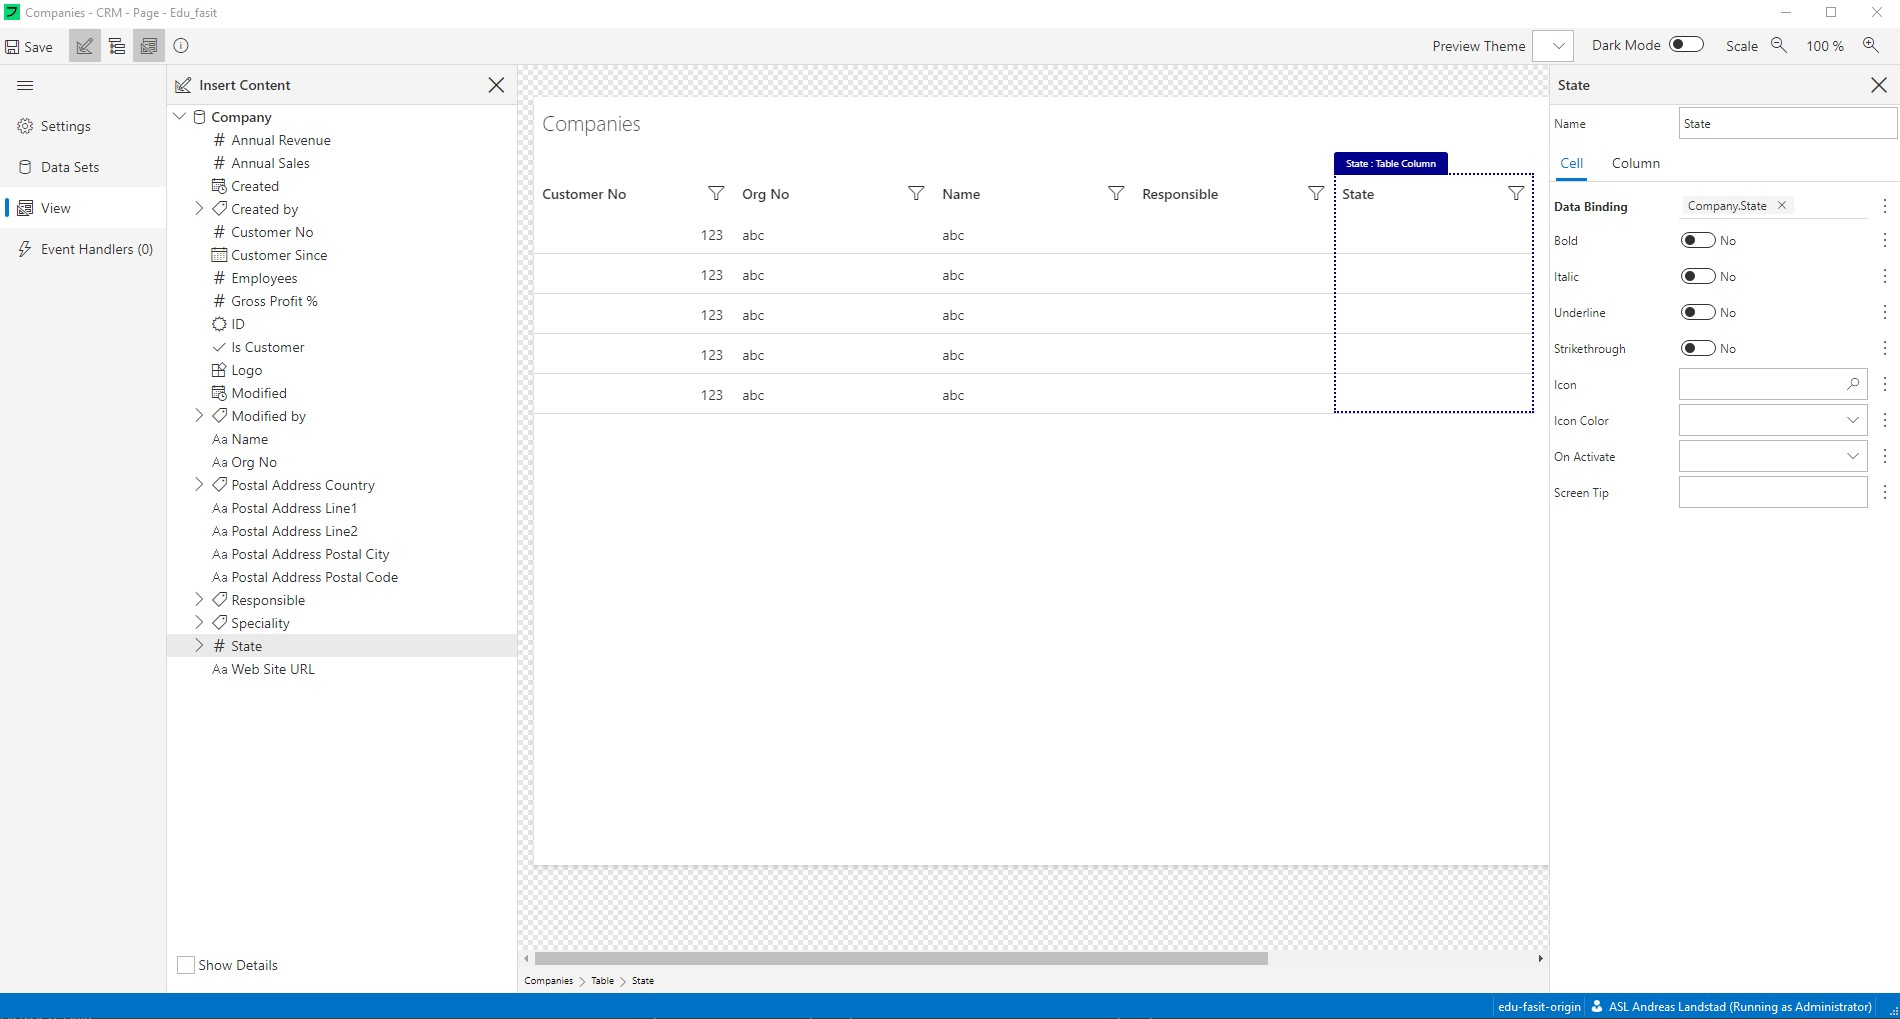
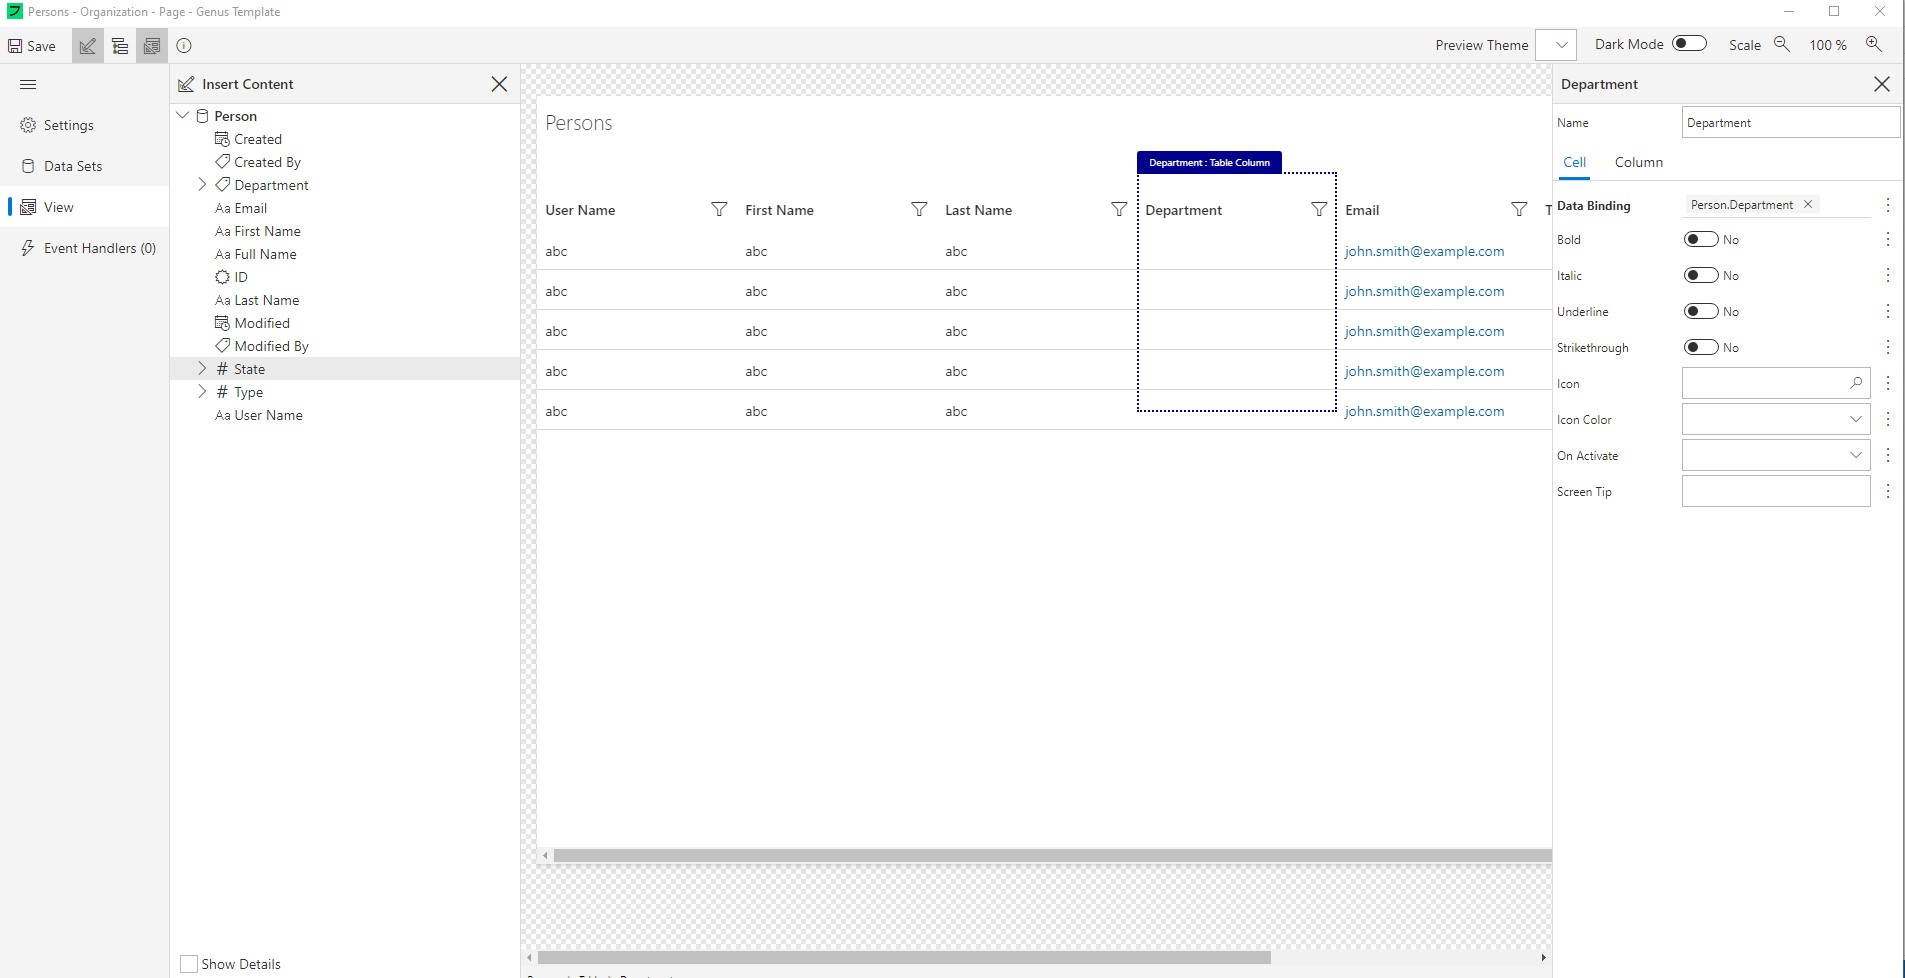
Free v.1.1

diff --git a/free/exercise-02.md b/free/exercise-02.md
@@ -1,8 +1,8 @@
-## Exercise 2 - Bring the application to the web
+## Exercise 2 - Human Resources app
 **SESSION BY INSTRUCTOR:** *The instructor will start off by giving you a brief introduction to Web modeling.*
 
-### Simple web application
-In this exercise, you will make a simple web interface for customer relation management.
+### Modules, pages and apps
+In this exercise, you will make a simple web interface for Human Resources Management.
 
 ####2. Create a new Organization Module
 
@@ -17,7 +17,7 @@ In this exercise, you will make a simple web interface for customer relation man
 
 3. Go to the View tab. Here you can drag fields from the Person data source to be displayed in the view. Add a few major columns such as User Name, First Name, Last Name, Department, Email, Type and State
 ![oppg02fig1.JPG](media/oppg02fig1.JPG)
-4. Go to settings, and select the title "Persons" and an appropriate icon (e.g. Basic-Person). Save all changes
+4. Go to settings, and select the title "Persons" and an appropriate icon (e.g. Basic-User). Save all changes
    
 ####4. Create a new App
 
@@ -25,33 +25,18 @@ In this exercise, you will make a simple web interface for customer relation man
 2. Create a New app, and name it "Human Resources". Also choose "Human Resources" as the title. Pick an appropriate icon.
 3. Navigate to Sitemap. The sitemap is devided into three levels; Area, Group and Link, where Group is optional.
 4. Add an Area and use the Label "Human Resources".
-5. Drag a link of the type "Page" and drop it on the Human Resources area. Select "Persons (Organization)" as your target. This is the view you just created. Flip "Enable Search" to "Yes".
+5. Drag a link of the type "Page" and drop it on the Human Resources area. Select "Persons (Organization)" as your target. Under Data Filter, select "Read all" This is the view you just created. Flip "Enable Search" to "Yes".
 6. In the bottom of the window, select Drawer Appearance "Expanded" and Landing Page Link "Human Resources/Persons". (This means that drawers will appear on the left, and you will land on the Persons view by default when opening the app). 
 7. Save the app. Your app should now look like this:
 ![oppg02fig2.JPG](media/oppg02fig2.JPG)
-8. Set security on the app, by right-clicking on the app and selecting properties. Go to the security tab, click tha "Add..." button, then "Advanced" and add the group "Standard". Click OK twice. Then select "Find and List" and "Read and Execute" on the list below.
+8. Close the app. Now set security on the app, by right-clicking on the app and selecting properties. Go to the security tab, click tha "Add..." button, then "Advanced" and add the group "Standard". Click OK twice. Then select "Find and List" and "Read and Execute" on the list below.
      
 ####5. Check that your new App is available in origin
 
-1. Go to the startpage or your application in the browser and refresh the page. The new app CRM should now be visible
+1. Go to the startpage or your application in the browser and refresh the page. The new app Human Resources should now be visible
 ![oppg02fig3.JPG](media/oppg02fig3.JPG)
-2. Enter the CRM app. You should now see the sitemap on the left, and the companies view on the rest of the screen. The table is empty, because no data filter is set. You can perform a search (e.g. Name starting with "a") in order to display some data.
+2. Enter the Human Resources app. You should now see the sitemap on the left, and the companies view on the rest of the screen. The table is empty, because no data filter is set. You can perform a search (e.g. Name starting with "a") in order to display some data.
 ![oppg02fig4.JPG](media/oppg02fig4.JPG)
-
-####6. Data Filters and pages
-
-1. We often want to look at a subset of data, without having to perform a search. To do this we need to create a data filter. Open the CRM Module, and navigate to "Data Filters" in the navigation pane on the left.
-2. Create a new data filter, and name it "My Companies". Select the data source "Company".
-3. Add the conditions "Company.Responsible = Active User Account (User)" and "Company.State = Active". Sort By name and press OK. Save changes on the module.
-![oppg02fig5.JPG](media/oppg02fig5.JPG)
-
-4. Now we are going to reorganize our CRM App, and utilize the ne filter. Open the CRM App. In the site map, change the label of the Companies link to "Search", by clicking on the vertical "...", selecting Text and entering the label. 
-5. Drag a link of the type "Pages" and drop it on the CRM Area. Change the label to "Companies". Drag the Search link onto the Companies Pages link (see figure further down).
-6. Drop a new Page-link onto the Companies Pages link. Name the new page link "My Companies". Select the Companies View as your target, and also select the "My Companies" data filter. Select default = Yes. 
-7. Select CRM/Companies as your Landing Page Link. Your sitemap should now look like this:
-![oppg02fig6.JPG](media/oppg02fig6.JPG)
-8. Check out the new sitemap in your browser as well, by refreshing. Your can navigate between My Companies and Search from the dropdown next to the title.
-![oppg02fig7.JPG](media/oppg02fig7.JPG)
 
 ####7. Create a Company Form
 
@@ -81,9 +66,6 @@ When you activate a row in the View, it will now send the Data Set from the cont
 Create a Contacts View and add it as a page to the Tab Control in the Company Form
 
   
-### Components, Viewports, Tabs and Kanban
-In this exercise we will explore some more web consepts, and demonstrate how choices during modeling affect our ability to reuse parts of the model
-
 ####1. Create a new Component for Company Summary
 *Components are pages that can be parts of other pages. By strategically creating components, we can reuse part of the user interface in another context. Firstly, we will make a component with a summary of key fields from the company, and include this component in the Company Form*
 
@@ -106,46 +88,6 @@ In this exercise we will explore some more web consepts, and demonstrate how cho
 ![oppg02fig15.JPG](media/oppg02fig15.JPG)
 
 
-####3. Create an Activity Module
-*The aim of this exercise is to demonstrate how you can use different Modules to separate and organize part of the total data model. Later we will also show how an app can link to pages from multiple Modules, and components from a different Module can be used in a Form page*
-
-1. Create a new Module and save it as "Activities". 
-2. Add "Activity" and "Activity State" from the Data Sources tab (Currently, you can't add code domains from the Data Diagram).
-
-####4. Display Activities in a Kanban control
-*The Kanban control is a very visual way of displaying processes where objects move through different states. We will use this to display activities. We create this as a component, so that we can later reuse it in a different context.*
-
-1. In the Activities module, create a new component of the type "Canvas", and name it "Activities - Kanban". Select the "None" viewport layout. Go to Settings and change the Title to just "Activities"
-2. Add a public interface data set: Name: "Activities", Data Source: "Activity", Occurrence: "Many"
-3. Add a filtered data set: Name: "Activity States", Data Source: "Activity State", Occurrence: "Many", Data Filter: "Read all"
-4. Navigate to the Canvas Tab, find Controls under Insert Content. Add a Kanban Control (directly inside the "content" Viewport Area).
-5. On the Kanban Control, select the following properties:
-   * List Data Binding: "Activity States"
-   * Card Data Binding: "Activities"
-   * Card to List Data Binding: "Activities.State"
-   * Sort Order: "Sorting"
-6. On the Card Template (click on the "(empty)" on "LIST0"), you can design the layout of a kanban Card. Add a Text Control inside the Card Template. Bind the value to Activities.Subject, and choose the Style "Heading 3". Add one more Text to the template and bind it to Activities.Description. Keep the style "Body 2". Save and close the component.
-
-####5. Incorporate the Activities Kanban in the Company form
-
-1. Open the Company form in the CRM Module. On the tab control, clik on "Related places". (Here, you can add tabs from other modules, that only load data after you navigate to them).
-2. Add a new item with the following properties:
-   * Name: "Activities"
-   * Target Type: "Component"
-   * Target: "Activities - Kanban"
-   * Data Filter: "Read related"
-3. Save and see the results in the browser. Remember to open a Company that has activities related to it.
-4. Your results should look like the figure below. Try moving cards between lists to change the state of the activity.
-![oppg02fig16.JPG](media/oppg02fig16.JPG)
-
-### Themes
-
-*You can use themes to customize the visual expression of the application, to, for instance, match that of the application owners organizaion*
-
-1. In the very bottom of the navigation pane in Genus Studio, navigate to Themes. Create a new Theme and name it "Main Theme"
-2. Select your favorite color as primary in both light mode and dark mode (e.g. #bf3711).
-3. Navigate to the CRM app, and change the theme to be "Main Theme". Save and check the results on the web.
-
 <table>
-   <tr><td><a href="exercise-01.md"><- Previous</a></td><td align="right"><a href="exercise-02.md">Next -></a></td></tr>
+   <tr><td><a href="exercise-01.md"><- Previous</a></td><td align="right"><a href="exercise-03.md">Next -></a></td></tr>
 </table>

diff --git a/free/exercise-03.md b/free/exercise-03.md
@@ -1,0 +1,66 @@
+## Exercise 3 - Activities 
+**SESSION BY INSTRUCTOR:** *The instructor will start off by giving you a brief introduction to Web modeling.*
+
+ 
+### Components, Viewports, Tabs and Kanban
+In this exercise we will explore some more web consepts, and demonstrate how choices during modeling affect our ability to reuse parts of the model
+
+
+####3. Create an Activity Module
+*The aim of this exercise is to demonstrate how you can use different Modules to separate and organize part of the total data model. Later we will also show how an app can link to pages from multiple Modules, and components from a different Module can be used in a Form page*
+
+1. Create a new Module and save it as "Activities". 
+2. Add "Activity" and "Activity State" from the Data Sources tab (Currently, you can't add code domains from the Data Diagram).
+
+####4. Display Activities in a Kanban control
+*The Kanban control is a very visual way of displaying processes where objects move through different states. We will use this to display activities. We create this as a component, so that we can later reuse it in a different context.*
+
+1. In the Activities module, create a new component of the type "Canvas", and name it "Activities - Kanban". Select the "None" viewport layout. Go to Settings and change the Title to just "Activities"
+2. Add a public interface data set: Name: "Activities", Data Source: "Activity", Occurrence: "Many"
+3. Add a filtered data set: Name: "Activity States", Data Source: "Activity State", Occurrence: "Many", Data Filter: "Read all"
+4. Navigate to the Canvas Tab, find Controls under Insert Content. Add a Kanban Control (directly inside the "content" Viewport Area).
+5. On the Kanban Control, select the following properties:
+   * List Data Binding: "Activity States"
+   * Card Data Binding: "Activities"
+   * Card to List Data Binding: "Activities.State"
+   * Sort Order: "Sorting"
+6. On the Card Template (click on the "(empty)" on "LIST0"), you can design the layout of a kanban Card. Add a Text Control inside the Card Template. Bind the value to Activities.Subject, and choose the Style "Heading 3". Add one more Text to the template and bind it to Activities.Description. Keep the style "Body 2". Save and close the component.
+
+####6. Data Filters and pages
+
+1. We often want to look at a subset of data, without having to perform a search. To do this we need to create a data filter. Open the CRM Module, and navigate to "Data Filters" in the navigation pane on the left.
+2. Create a new data filter, and name it "My Companies". Select the data source "Company".
+3. Add the conditions "Company.Responsible = Active User Account (User)" and "Company.State = Active". Sort By name and press OK. Save changes on the module.
+![oppg02fig5.JPG](media/oppg02fig5.JPG)
+
+4. Now we are going to reorganize our CRM App, and utilize the ne filter. Open the CRM App. In the site map, change the label of the Companies link to "Search", by clicking on the vertical "...", selecting Text and entering the label. 
+5. Drag a link of the type "Pages" and drop it on the CRM Area. Change the label to "Companies". Drag the Search link onto the Companies Pages link (see figure further down).
+6. Drop a new Page-link onto the Companies Pages link. Name the new page link "My Companies". Select the Companies View as your target, and also select the "My Companies" data filter. Select default = Yes. 
+7. Select CRM/Companies as your Landing Page Link. Your sitemap should now look like this:
+![oppg02fig6.JPG](media/oppg02fig6.JPG)
+8. Check out the new sitemap in your browser as well, by refreshing. Your can navigate between My Companies and Search from the dropdown next to the title.
+![oppg02fig7.JPG](media/oppg02fig7.JPG)
+
+####5. Incorporate the Activities Kanban in the Company form
+
+1. Open the Company form in the CRM Module. On the tab control, clik on "Related places". (Here, you can add tabs from other modules, that only load data after you navigate to them).
+2. Add a new item with the following properties:
+   * Name: "Activities"
+   * Target Type: "Component"
+   * Target: "Activities - Kanban"
+   * Data Filter: "Read related"
+3. Save and see the results in the browser. Remember to open a Company that has activities related to it.
+4. Your results should look like the figure below. Try moving cards between lists to change the state of the activity.
+![oppg02fig16.JPG](media/oppg02fig16.JPG)
+
+### Themes
+
+*You can use themes to customize the visual expression of the application, to, for instance, match that of the application owners organizaion*
+
+1. In the very bottom of the navigation pane in Genus Studio, navigate to Themes. Create a new Theme and name it "Main Theme"
+2. Select your favorite color as primary in both light mode and dark mode (e.g. #bf3711).
+3. Navigate to the CRM app, and change the theme to be "Main Theme". Save and check the results on the web.
+
+<table>
+   <tr><td><a href="exercise-02.md"><- Previous</a></td><td align="right"><a href="exercise-04.md">Next -></a></td></tr>
+</table>

diff --git a/free/installation_setup.md b/free/installation_setup.md
@@ -2,10 +2,10 @@
 # Installation of Genus and URLs to the environments
 
 ### Installation
-In case you haven't installed Genus Apps on your computer yet: Open the web browser and type https://**\<username\>**-origin.free.genus.net/Download/Setup.exe. This will download Genus.	
+In case you haven't installed Genus Apps on your computer yet: Open the web browser and type https://free-**\<username\>**-origin.free.genus.net/Download/Setup.exe. This will download Genus.	
 
 ### Log into your Environment
-You can access your environment through the URL https://**\<username\>**-origin.free.genus.net/
+You can access your environment through the URL https://free-**\<username\>**-origin.free.genus.net/
 
 When you log in for the first time, please select **Forgot password?**, type in your username and select **Send email**. You should receive a link to set your password soon.
 
